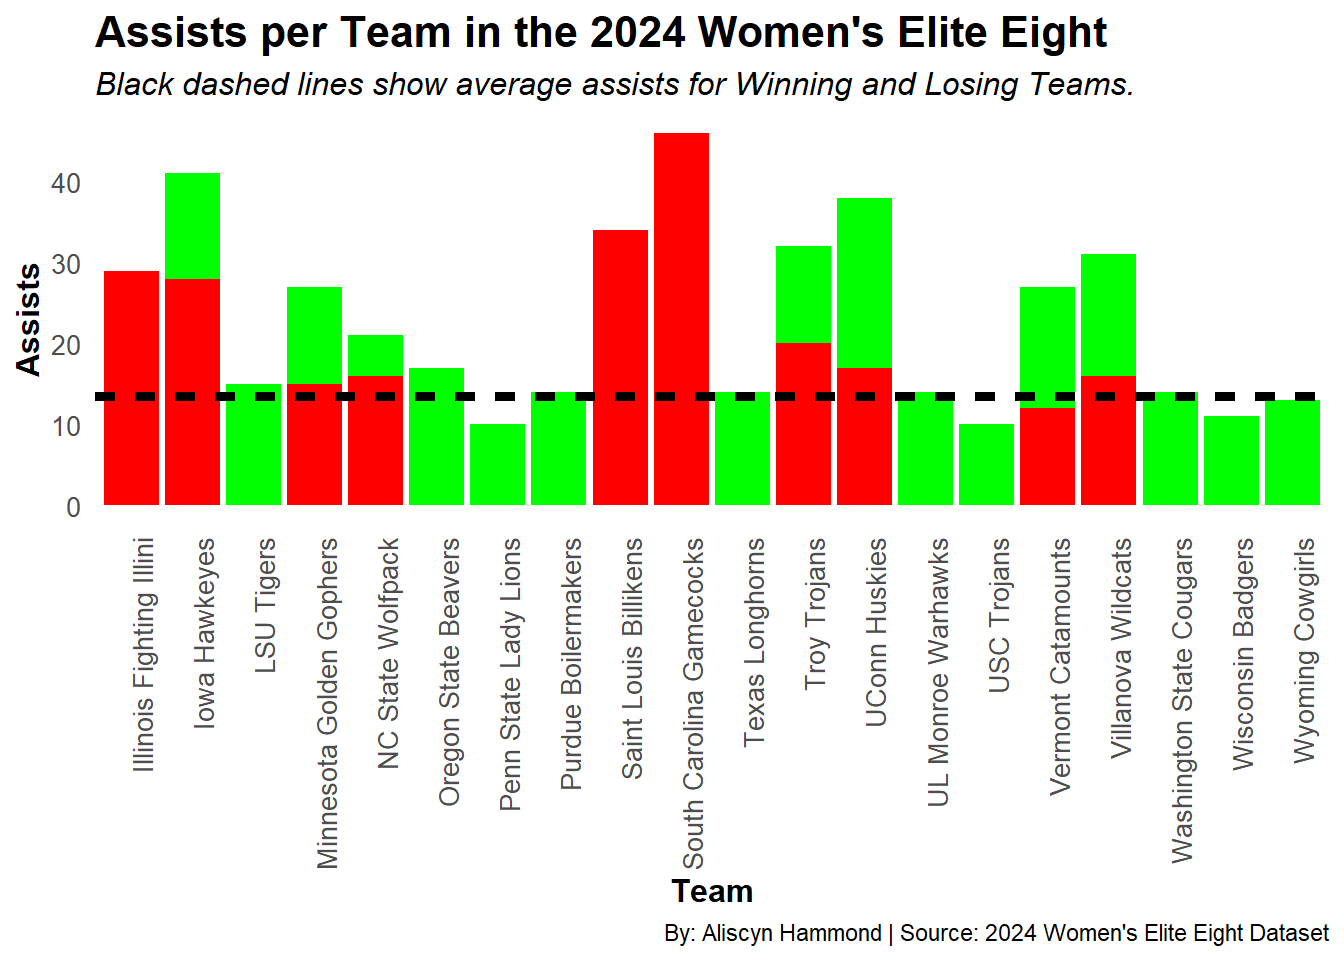
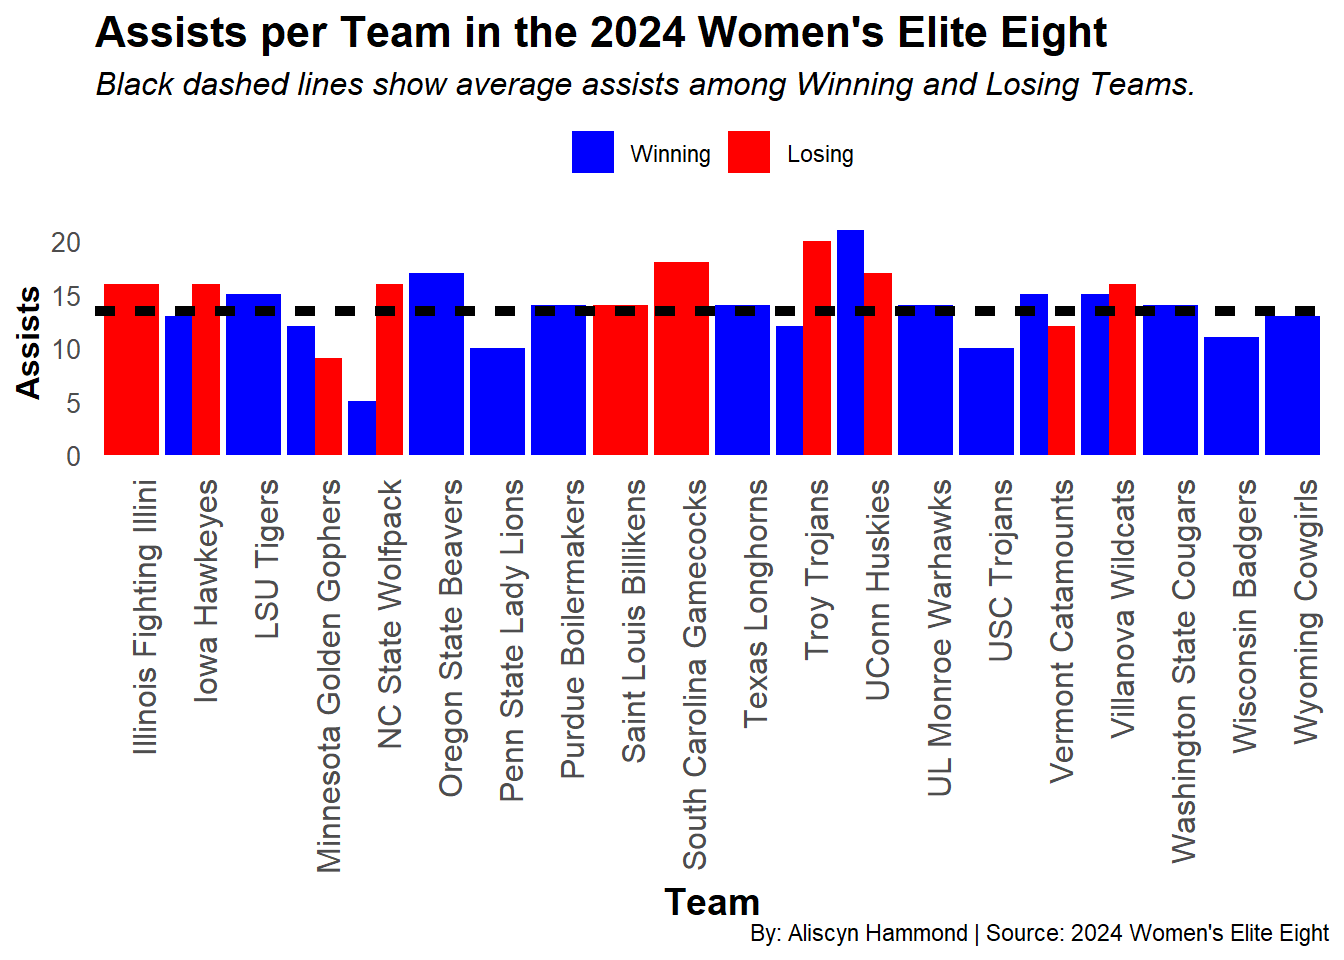
fixed bar chart

Changed region(s): [[0.0, 0.0625, 1.0, 1.0], [0.0312, 0.1875, 0.0625, 0.2188]]

diff --git a/posts/elite-eight-women-basketball/index.html b/posts/elite-eight-women-basketball/index.html
@@ -237,27 +237,36 @@ pre > code.sourceCode > span > a:first-child::before { text-decoration: underlin
 <span id="cb2-8"><a href="#cb2-8" aria-hidden="true" tabindex="-1"></a>elite <span class="ot">&lt;-</span> elite <span class="sc">%&gt;%</span></span>
 <span id="cb2-9"><a href="#cb2-9" aria-hidden="true" tabindex="-1"></a>  <span class="fu">mutate</span>(<span class="at">team_status =</span> <span class="fu">ifelse</span>(team_winner <span class="sc">==</span> <span class="cn">TRUE</span>, <span class="st">"Winning"</span>, <span class="st">"Losing"</span>))</span>
 <span id="cb2-10"><a href="#cb2-10" aria-hidden="true" tabindex="-1"></a></span>
-<span id="cb2-11"><a href="#cb2-11" aria-hidden="true" tabindex="-1"></a><span class="fu">ggplot</span>(elite, <span class="fu">aes</span>(<span class="at">x =</span> team_display_name, <span class="at">y =</span> assists, <span class="at">fill =</span> team_status)) <span class="sc">+</span></span>
-<span id="cb2-12"><a href="#cb2-12" aria-hidden="true" tabindex="-1"></a>  <span class="fu">geom_bar</span>(<span class="at">stat =</span> <span class="st">"identity"</span>, <span class="at">show.legend =</span> <span class="cn">FALSE</span>) <span class="sc">+</span>  </span>
-<span id="cb2-13"><a href="#cb2-13" aria-hidden="true" tabindex="-1"></a>  <span class="fu">geom_hline</span>(<span class="at">data =</span> avg_assists, <span class="fu">aes</span>(<span class="at">yintercept =</span> avg_assists, <span class="at">color =</span> <span class="fu">factor</span>(team_winner)), <span class="at">linetype =</span> <span class="st">"dashed"</span>, <span class="at">size =</span> <span class="dv">1</span>,<span class="at">color=</span><span class="st">"black"</span>) <span class="sc">+</span>  </span>
-<span id="cb2-14"><a href="#cb2-14" aria-hidden="true" tabindex="-1"></a>  <span class="fu">labs</span>(</span>
-<span id="cb2-15"><a href="#cb2-15" aria-hidden="true" tabindex="-1"></a>    <span class="at">title =</span> <span class="st">"Assists per Team in the 2024 Women's Elite Eight"</span>,</span>
-<span id="cb2-16"><a href="#cb2-16" aria-hidden="true" tabindex="-1"></a>    <span class="at">subtitle =</span> <span class="fu">paste</span>(<span class="st">"Black dashed lines show average assists for Winning and Losing Teams."</span>),</span>
-<span id="cb2-17"><a href="#cb2-17" aria-hidden="true" tabindex="-1"></a>    <span class="at">x =</span> <span class="st">"Team"</span>,</span>
-<span id="cb2-18"><a href="#cb2-18" aria-hidden="true" tabindex="-1"></a>    <span class="at">y =</span> <span class="st">"Assists"</span>,</span>
-<span id="cb2-19"><a href="#cb2-19" aria-hidden="true" tabindex="-1"></a>    <span class="at">caption =</span> <span class="st">"By: Aliscyn Hammond | Source: 2024 Women's Elite Eight Dataset"</span></span>
-<span id="cb2-20"><a href="#cb2-20" aria-hidden="true" tabindex="-1"></a>  ) <span class="sc">+</span></span>
-<span id="cb2-21"><a href="#cb2-21" aria-hidden="true" tabindex="-1"></a>  <span class="fu">theme_minimal</span>() <span class="sc">+</span></span>
-<span id="cb2-22"><a href="#cb2-22" aria-hidden="true" tabindex="-1"></a>  <span class="fu">scale_fill_manual</span>(<span class="at">values =</span> <span class="fu">c</span>(<span class="st">"green"</span>, <span class="st">"red"</span>)) <span class="sc">+</span></span>
-<span id="cb2-23"><a href="#cb2-23" aria-hidden="true" tabindex="-1"></a>  <span class="fu">scale_color_manual</span>(<span class="at">values =</span> <span class="fu">c</span>(<span class="st">"green"</span>, <span class="st">"red"</span>)) <span class="sc">+</span>  </span>
-<span id="cb2-24"><a href="#cb2-24" aria-hidden="true" tabindex="-1"></a>  <span class="fu">theme</span>(</span>
-<span id="cb2-25"><a href="#cb2-25" aria-hidden="true" tabindex="-1"></a>    <span class="at">plot.title =</span> <span class="fu">element_text</span>(<span class="at">size =</span> <span class="dv">16</span>, <span class="at">face =</span> <span class="st">"bold"</span>),</span>
-<span id="cb2-26"><a href="#cb2-26" aria-hidden="true" tabindex="-1"></a>    <span class="at">plot.subtitle =</span> <span class="fu">element_text</span>(<span class="at">size =</span> <span class="dv">12</span>, <span class="at">face =</span> <span class="st">"italic"</span>),</span>
-<span id="cb2-27"><a href="#cb2-27" aria-hidden="true" tabindex="-1"></a>    <span class="at">axis.title =</span> <span class="fu">element_text</span>(<span class="at">size =</span> <span class="dv">12</span>, <span class="at">face =</span> <span class="st">"bold"</span>),</span>
-<span id="cb2-28"><a href="#cb2-28" aria-hidden="true" tabindex="-1"></a>    <span class="at">axis.text.x =</span> <span class="fu">element_text</span>(<span class="at">angle =</span> <span class="dv">90</span>, <span class="at">hjust =</span> <span class="dv">1</span>, <span class="at">size =</span> <span class="dv">10</span>),  </span>
-<span id="cb2-29"><a href="#cb2-29" aria-hidden="true" tabindex="-1"></a>    <span class="at">axis.text.y =</span> <span class="fu">element_text</span>(<span class="at">size =</span> <span class="dv">10</span>),</span>
-<span id="cb2-30"><a href="#cb2-30" aria-hidden="true" tabindex="-1"></a>    <span class="at">panel.grid =</span> <span class="fu">element_blank</span>()  </span>
-<span id="cb2-31"><a href="#cb2-31" aria-hidden="true" tabindex="-1"></a>  )</span></code><button title="Copy to Clipboard" class="code-copy-button"><i class="bi"></i></button></pre></div>
+<span id="cb2-11"><a href="#cb2-11" aria-hidden="true" tabindex="-1"></a></span>
+<span id="cb2-12"><a href="#cb2-12" aria-hidden="true" tabindex="-1"></a><span class="fu">ggplot</span>(elite, <span class="fu">aes</span>(<span class="at">x =</span> team_display_name, <span class="at">y =</span> assists, <span class="at">fill =</span> team_status)) <span class="sc">+</span></span>
+<span id="cb2-13"><a href="#cb2-13" aria-hidden="true" tabindex="-1"></a>  <span class="fu">geom_bar</span>(<span class="at">stat =</span> <span class="st">"identity"</span>, <span class="at">position =</span> <span class="st">"dodge"</span>) <span class="sc">+</span></span>
+<span id="cb2-14"><a href="#cb2-14" aria-hidden="true" tabindex="-1"></a>  <span class="fu">geom_hline</span>(<span class="at">data =</span> avg_assists, <span class="fu">aes</span>(<span class="at">yintercept =</span> avg_assists, <span class="at">color =</span> <span class="fu">factor</span>(team_winner)), <span class="at">linetype =</span> <span class="st">"dashed"</span>, <span class="at">size =</span> <span class="dv">1</span>, <span class="at">color =</span> <span class="st">"black"</span>) <span class="sc">+</span>  </span>
+<span id="cb2-15"><a href="#cb2-15" aria-hidden="true" tabindex="-1"></a>  <span class="fu">labs</span>(</span>
+<span id="cb2-16"><a href="#cb2-16" aria-hidden="true" tabindex="-1"></a>    <span class="at">title =</span> <span class="st">"Assists per Team in the 2024 Women's Elite Eight"</span>,</span>
+<span id="cb2-17"><a href="#cb2-17" aria-hidden="true" tabindex="-1"></a>    <span class="at">subtitle =</span> <span class="fu">paste</span>(<span class="st">"Black dashed lines show average assists among Winning and Losing Teams."</span>),</span>
+<span id="cb2-18"><a href="#cb2-18" aria-hidden="true" tabindex="-1"></a>    <span class="at">x =</span> <span class="st">"Team"</span>,</span>
+<span id="cb2-19"><a href="#cb2-19" aria-hidden="true" tabindex="-1"></a>    <span class="at">y =</span> <span class="st">"Assists"</span>,</span>
+<span id="cb2-20"><a href="#cb2-20" aria-hidden="true" tabindex="-1"></a>    <span class="at">caption =</span> <span class="st">"By: Aliscyn Hammond | Source: 2024 Women's Elite Eight"</span></span>
+<span id="cb2-21"><a href="#cb2-21" aria-hidden="true" tabindex="-1"></a>  ) <span class="sc">+</span></span>
+<span id="cb2-22"><a href="#cb2-22" aria-hidden="true" tabindex="-1"></a>  <span class="fu">theme_minimal</span>() <span class="sc">+</span></span>
+<span id="cb2-23"><a href="#cb2-23" aria-hidden="true" tabindex="-1"></a>  <span class="fu">scale_fill_manual</span>(</span>
+<span id="cb2-24"><a href="#cb2-24" aria-hidden="true" tabindex="-1"></a>    <span class="at">values =</span> <span class="fu">c</span>(<span class="st">"blue"</span>, <span class="st">"red"</span>), </span>
+<span id="cb2-25"><a href="#cb2-25" aria-hidden="true" tabindex="-1"></a>    <span class="at">labels =</span> <span class="fu">c</span>(<span class="st">"Winning"</span>, <span class="st">"Losing"</span>)  </span>
+<span id="cb2-26"><a href="#cb2-26" aria-hidden="true" tabindex="-1"></a>  ) <span class="sc">+</span></span>
+<span id="cb2-27"><a href="#cb2-27" aria-hidden="true" tabindex="-1"></a>  <span class="fu">scale_color_manual</span>(</span>
+<span id="cb2-28"><a href="#cb2-28" aria-hidden="true" tabindex="-1"></a>    <span class="at">values =</span> <span class="fu">c</span>(<span class="st">"blue"</span>, <span class="st">"red"</span>) </span>
+<span id="cb2-29"><a href="#cb2-29" aria-hidden="true" tabindex="-1"></a>  ) <span class="sc">+</span>  </span>
+<span id="cb2-30"><a href="#cb2-30" aria-hidden="true" tabindex="-1"></a>  <span class="fu">theme</span>(</span>
+<span id="cb2-31"><a href="#cb2-31" aria-hidden="true" tabindex="-1"></a>    <span class="at">plot.title =</span> <span class="fu">element_text</span>(<span class="at">size =</span> <span class="dv">16</span>, <span class="at">face =</span> <span class="st">"bold"</span>),</span>
+<span id="cb2-32"><a href="#cb2-32" aria-hidden="true" tabindex="-1"></a>    <span class="at">plot.subtitle =</span> <span class="fu">element_text</span>(<span class="at">size =</span> <span class="dv">12</span>, <span class="at">face =</span> <span class="st">"italic"</span>),</span>
+<span id="cb2-33"><a href="#cb2-33" aria-hidden="true" tabindex="-1"></a>    <span class="at">axis.title =</span> <span class="fu">element_text</span>(<span class="at">size =</span> <span class="dv">12</span>, <span class="at">face =</span> <span class="st">"bold"</span>),</span>
+<span id="cb2-34"><a href="#cb2-34" aria-hidden="true" tabindex="-1"></a>     <span class="at">axis.title.x =</span> <span class="fu">element_text</span>(<span class="at">size =</span> <span class="dv">14</span>, <span class="at">face =</span> <span class="st">"bold"</span>, <span class="at">hjust =</span> <span class="fl">0.5</span>, <span class="at">vjust =</span> <span class="sc">-</span><span class="dv">1</span>),</span>
+<span id="cb2-35"><a href="#cb2-35" aria-hidden="true" tabindex="-1"></a>    <span class="at">axis.text.x =</span> <span class="fu">element_text</span>(<span class="at">angle =</span> <span class="dv">90</span>, <span class="at">hjust =</span> <span class="dv">1</span>, <span class="at">size =</span> <span class="dv">12</span>),  </span>
+<span id="cb2-36"><a href="#cb2-36" aria-hidden="true" tabindex="-1"></a>    <span class="at">axis.text.y =</span> <span class="fu">element_text</span>(<span class="at">size =</span> <span class="dv">10</span>),</span>
+<span id="cb2-37"><a href="#cb2-37" aria-hidden="true" tabindex="-1"></a>    <span class="at">panel.grid =</span> <span class="fu">element_blank</span>(),</span>
+<span id="cb2-38"><a href="#cb2-38" aria-hidden="true" tabindex="-1"></a>    <span class="at">legend.title =</span> <span class="fu">element_blank</span>(), </span>
+<span id="cb2-39"><a href="#cb2-39" aria-hidden="true" tabindex="-1"></a>    <span class="at">legend.position =</span> <span class="st">"top"</span>  </span>
+<span id="cb2-40"><a href="#cb2-40" aria-hidden="true" tabindex="-1"></a>  )</span></code><button title="Copy to Clipboard" class="code-copy-button"><i class="bi"></i></button></pre></div>
 <div class="cell-output cell-output-stderr">
 <pre><code>Warning: Using `size` aesthetic for lines was deprecated in ggplot2 3.4.0.
 ℹ Please use `linewidth` instead.</code></pre>

diff --git a/index.html b/index.html
@@ -210,7 +210,7 @@ window.Quarto = {
 
 <div class="quarto-listing quarto-listing-container-default" id="listing-listing">
 <div class="list quarto-listing-default">
-<div class="quarto-post image-right" data-index="0" data-categories="YmFza2V0YmFsbCx3b21lbiBzcG9ydHMsZWxpdGUgZWlnaHQ=" data-listing-date-sort="1731304800000" data-listing-file-modified-sort="1731386892645" data-listing-date-modified-sort="NaN" data-listing-reading-time-sort="6" data-listing-word-count-sort="1076">
+<div class="quarto-post image-right" data-index="0" data-categories="YmFza2V0YmFsbCx3b21lbiBzcG9ydHMsZWxpdGUgZWlnaHQ=" data-listing-date-sort="1731304800000" data-listing-file-modified-sort="1731452033886" data-listing-date-modified-sort="NaN" data-listing-reading-time-sort="6" data-listing-word-count-sort="1130">
 <div class="thumbnail">
 <p><a href="./posts/elite-eight-women-basketball/index.html" class="no-external"></a></p><a href="./posts/elite-eight-women-basketball/index.html" class="no-external">
 <p><img loading="lazy" src="./posts/elite-eight-women-basketball/image.png" class="thumbnail-image"></p>
